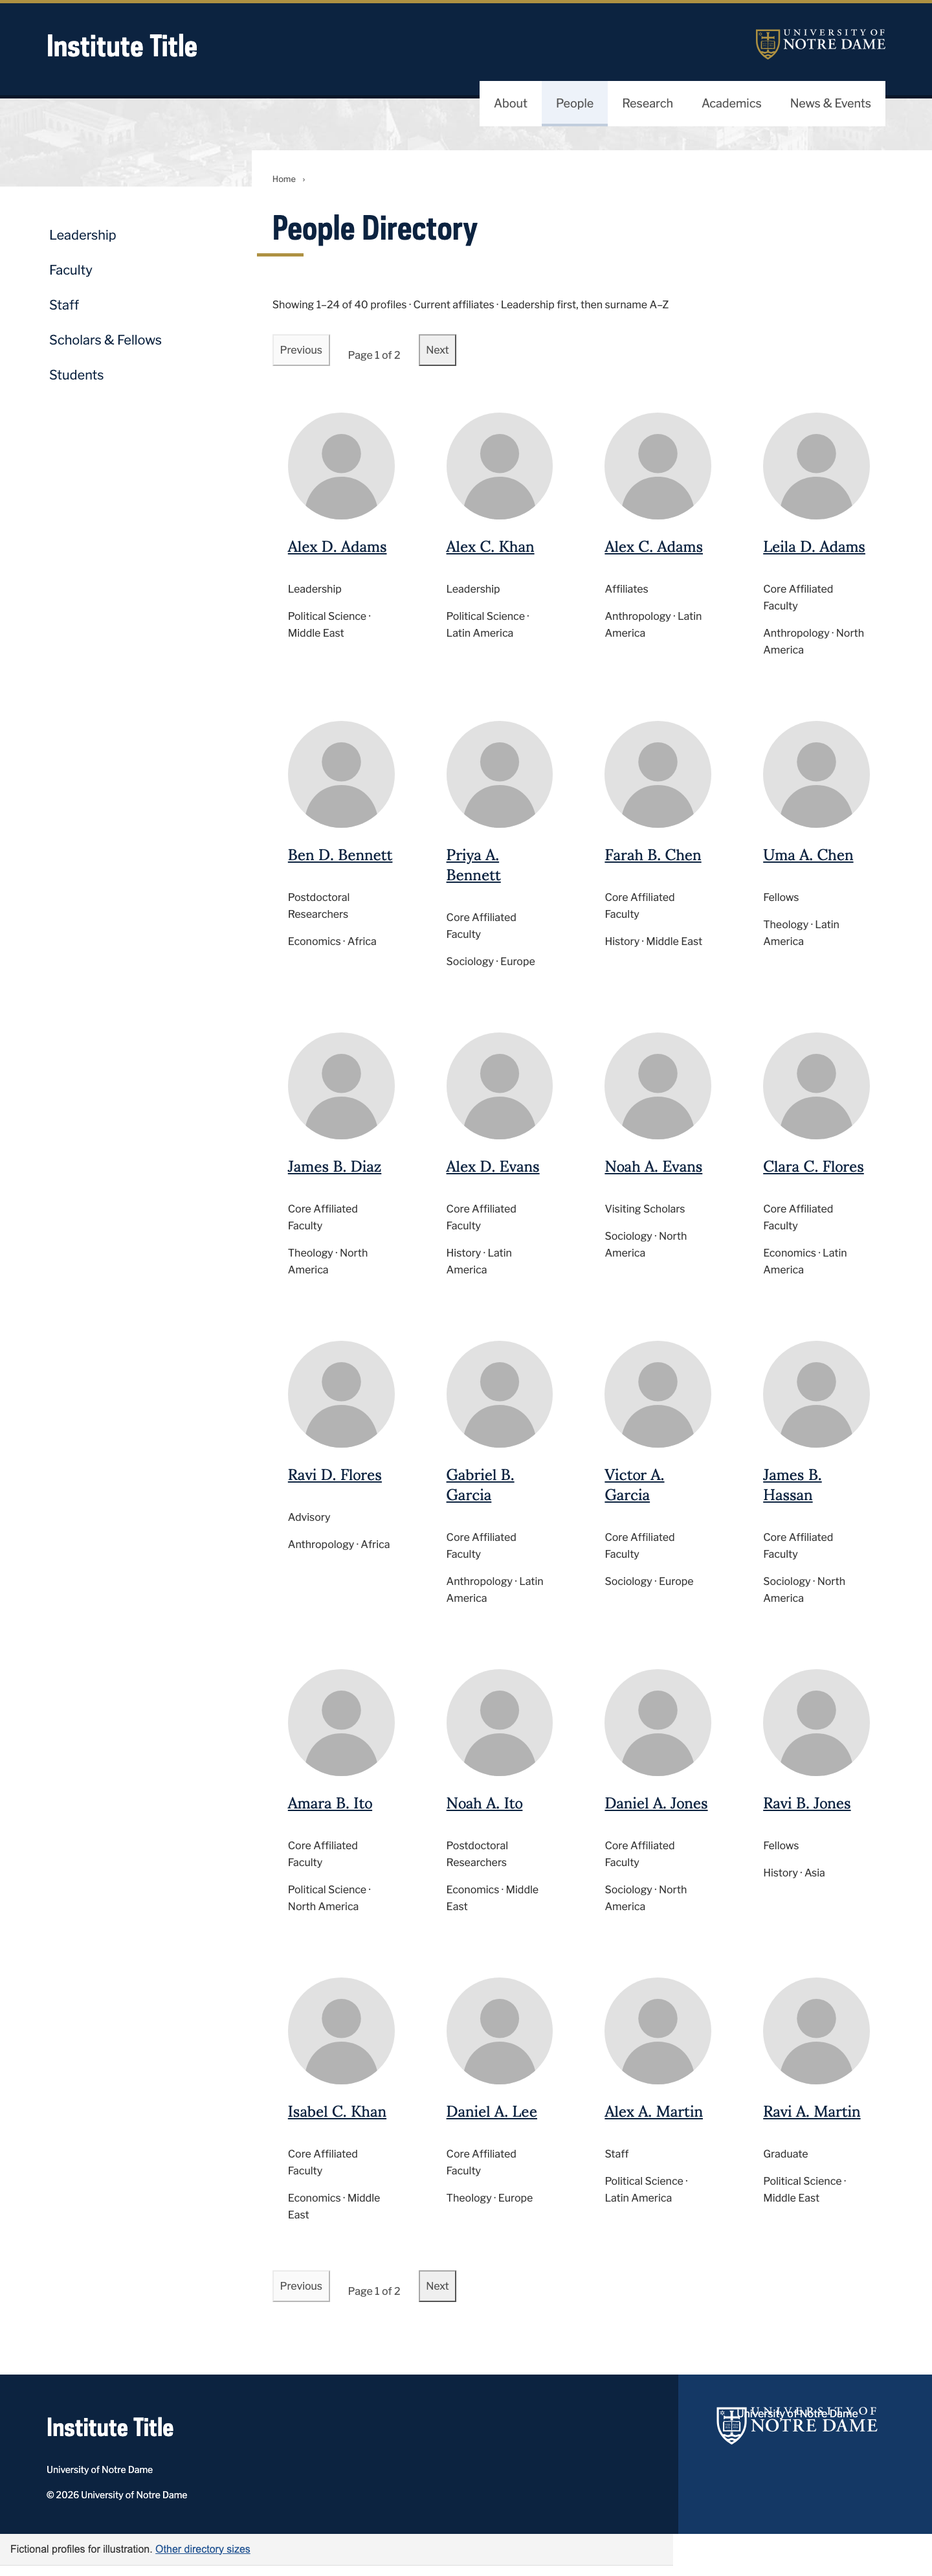
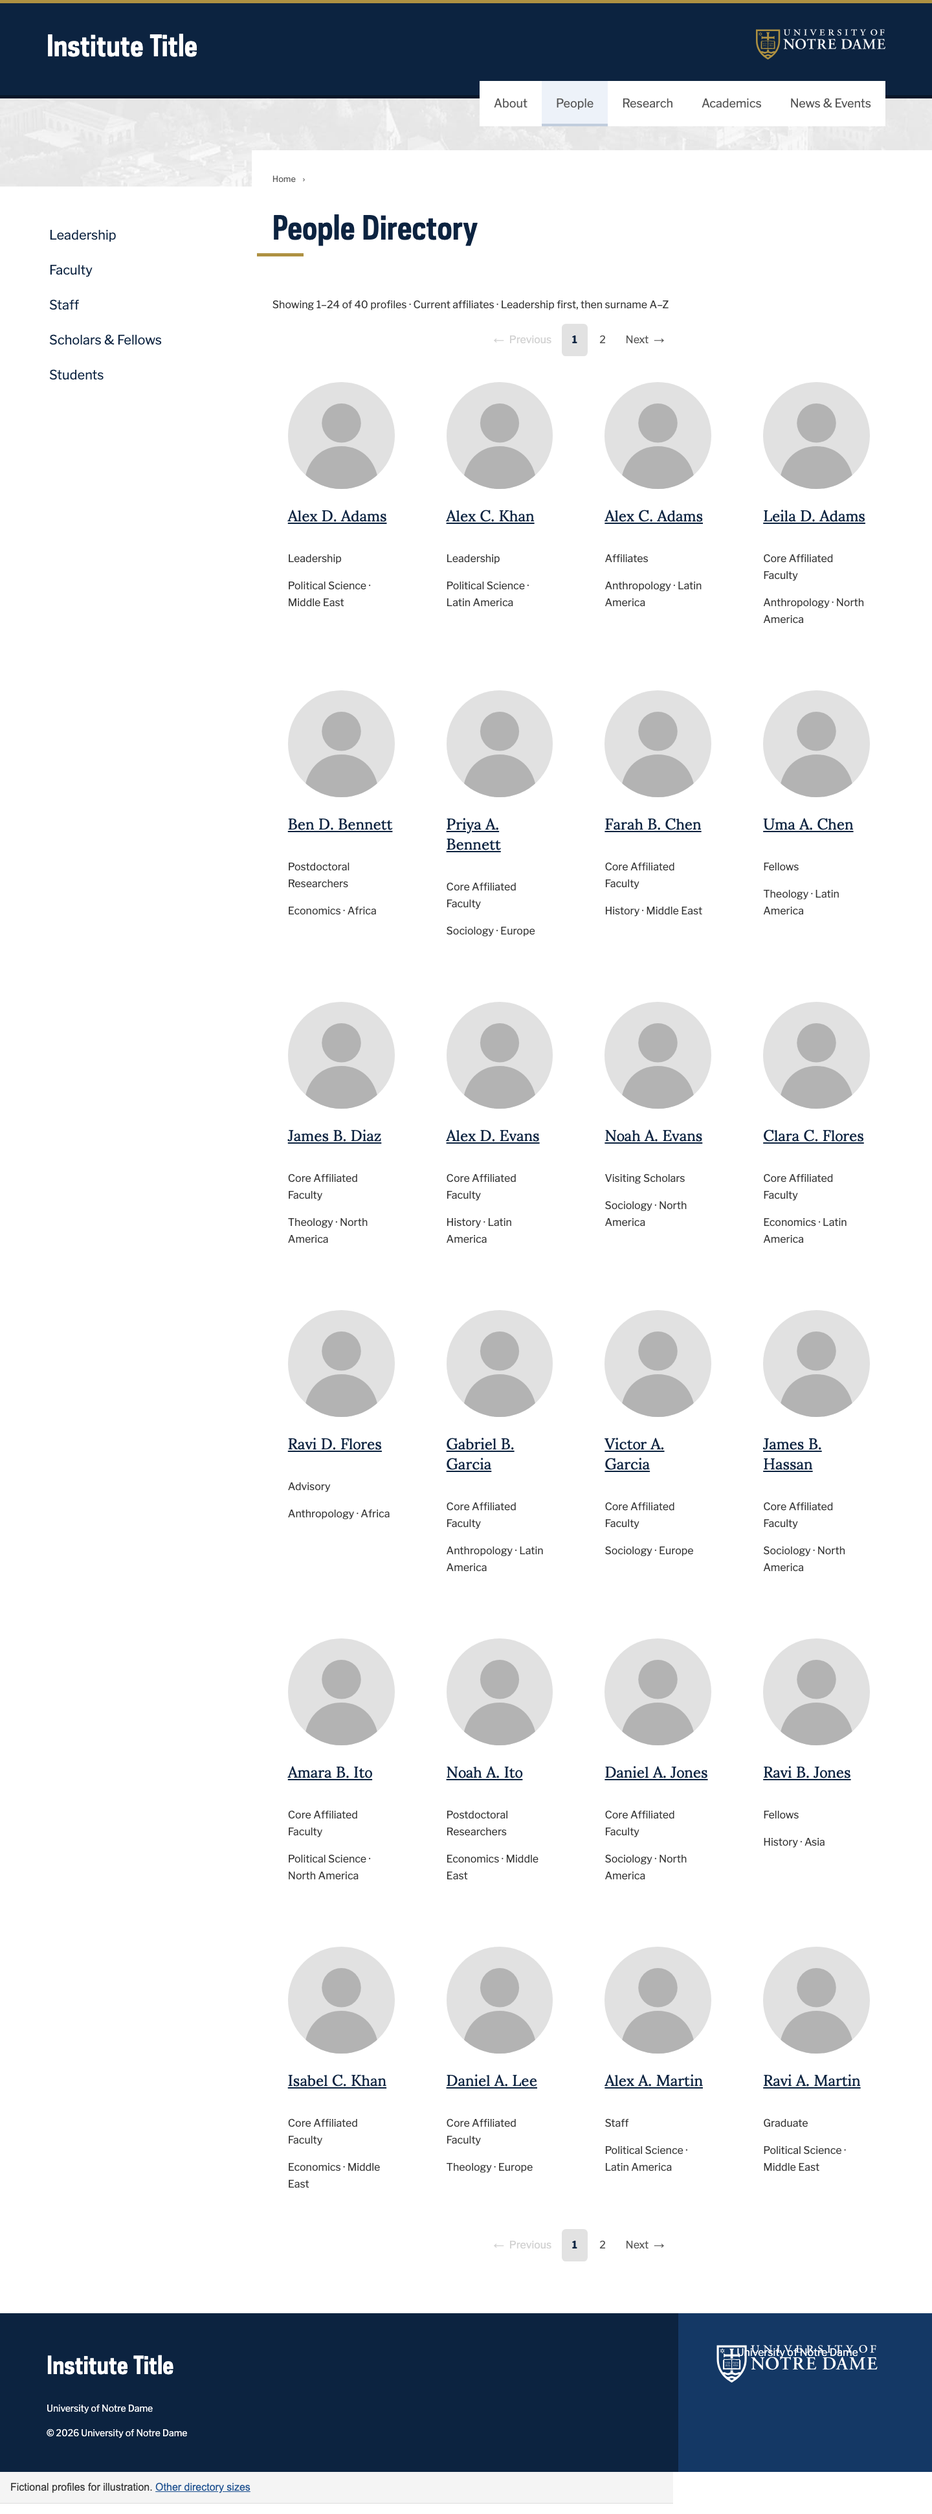
Use documented pagination markup and unmodified theme styles

diff --git a/comparison-assets/compare.js b/comparison-assets/compare.js
@@ -35,7 +35,7 @@ ${controls?`<form class="directory-controls" id="search-form"><label>Search ${gr
 <div class="directory-controls" ${gateway||featured?'hidden':''} id="filters"><label>Discipline<select id="discipline"><option value="">All disciplines</option>${options('discipline',discipline)}</select></label><label>Region of expertise<select id="region"><option value="">All regions</option>${options('region',region)}</select></label><label>Affiliation<select id="status"><option value="current" ${status==='current'?'selected':''}>Current</option><option value="past" ${status==='past'?'selected':''}>Past</option><option value="all" ${status==='all'?'selected':''}>Current and past</option></select></label><button id="reset" type="button">Clear search and filters</button></div>`:''}
 ${gateway?'<ul class="category-links">'+Object.entries(groups).map(([g,label])=>`<li><a href="${url(g)}"><strong>${label}</strong><br>${e({governance:'Institute leadership and advisory council',faculty:'Core affiliates and faculty groups',staff:'The team supporting the institute','scholars-fellows':'Visiting scholars, fellows, and postdocs',students:'Undergraduate, graduate, and PhD groups'}[g])}</a></li>`).join('')+'</ul>':''}
 ${featured?'<h2>Featured community members</h2><p>A curated selection across institute roles. This is not the complete directory.</p><p><a href="?search=1">Browse the full directory</a></p>':''}
-<p id="result-count" role="status" aria-live="polite"></p>${screenshot?'<nav class="pagination" aria-label="Directory pages above results" id="pagination-top"></nav>':''}<ul id="results" class="grid grid-sm-2 grid-md-4"></ul><nav class="pagination" aria-label="Directory pages" id="pagination"></nav>
+<p id="result-count" role="status" aria-live="polite"></p>${screenshot?'<div class="pagination" role="navigation" aria-label="Pagination above results" id="pagination-top"></div>':''}<ul id="results" class="grid grid-sm-2 grid-md-4"></ul><div class="pagination" role="navigation" aria-label="Pagination" id="pagination"></div>
 <dialog class="prototype-dialog" aria-labelledby="profile-name"><button id="close-profile" autofocus>Close profile</button><h2 id="profile-name"></h2><div id="profile-detail"></div></dialog>`;
 function save(){const s=new URLSearchParams(location.search);for(const [k,v] of Object.entries({q,discipline,region,status,page:String(page)})){if(v)s.set(k,v);else s.delete(k);}if(searched)s.set('search','1');history.replaceState(null,'',currentPath+'?'+s);}
 function render(){
@@ -47,12 +47,27 @@ function render(){
  const visible=small||featured?list:list.slice((page-1)*pageSize,page*pageSize);
  document.querySelector('#result-count').textContent=featured?'':list.length?`${small?'Showing all '+list.length:`Showing ${(page-1)*pageSize+1}–${Math.min(page*pageSize,list.length)} of ${list.length}`} profiles${!small?' · '+(status==='all'?'Current and past':status==='past'?'Past affiliates':'Current affiliates'):''}${screenshot&&!group?' · Leadership first, then surname A–Z':' · Last name A–Z'}`:'No matching profiles. Try a different search or clear the filters.';
  document.querySelector('#results').innerHTML=visible.map(p=>`<li class="card card-person"><figure class="card-image"><img class="image-circle" src="../../assets/avatar-placeholder.svg" width="600" height="600" alt="" loading="lazy"></figure><div class="card-body"><h3 class="card-title"><button class="profile-link" data-profile="${p.id}">${e(p.name)}</button></h3><p>${e(p.role)}</p><p>${e(p.discipline)} · ${e(p.region)}</p></div></li>`).join('');
- document.querySelector('#pagination').innerHTML=small||featured||!list.length||(screenshot&&list.length<=24)?'':`<button data-page="${page-1}" ${page===1?'disabled':''}>Previous</button><span>Page ${page} of ${pages}</span><button data-page="${page+1}" ${page===pages?'disabled':''}>Next</button>`;
- if(screenshot)document.querySelector('#pagination-top').innerHTML=document.querySelector('#pagination').innerHTML;
+ const visiblePages=[];
+ let start=Math.max(1,page-2),end=Math.min(pages,page+2);
+ if(start<=3){start=1;end=Math.min(pages,5);}
+ if(end>=pages-2){start=Math.max(1,pages-4);end=pages;}
+ const pageLink=(n,label,attrs='')=>{const next=new URLSearchParams(location.search);next.set('page',String(n));return `<a ${attrs} data-page="${n}" href="${e(currentPath+'?'+next)}">${label}</a>`;};
+ if(start>1){visiblePages.push(pageLink(1,'1','aria-label="Page 1"'));if(start>2)visiblePages.push('<span class="gap">…</span>');}
+ for(let n=start;n<=end;n++)visiblePages.push(n===page?`<span class="current" aria-current="page">${n}</span>`:pageLink(n,n,`aria-label="Page ${n}"`));
+ if(end<pages){if(end<pages-1)visiblePages.push('<span class="gap">…</span>');visiblePages.push(pageLink(pages,pages,`aria-label="Page ${pages}"`));}
+ const pagination=pages<=1||small||featured?'':[
+ page>1?pageLink(page-1,'Previous','class="previous_page" aria-label="Previous page" rel="prev"'):'<span class="previous_page disabled" aria-label="Previous page">Previous</span>',
+ ...visiblePages,
+ page<pages?pageLink(page+1,'Next','class="next_page" aria-label="Next page" rel="next"'):'<span class="next_page disabled" aria-label="Next page">Next</span>'
+ ].join(' ');
+ document.querySelector('#pagination').innerHTML=pagination;
+ document.querySelector('#pagination').hidden=!pagination;
+ if(screenshot){document.querySelector('#pagination-top').innerHTML=pagination;document.querySelector('#pagination-top').hidden=!pagination;}
+
 }
 app.addEventListener('submit',ev=>{ev.preventDefault();q=new FormData(ev.target).get('q').trim();page=1;searched=true;save();if(gateway||featured)location.reload();else render();});
 for(const key of ['discipline','region','status'])document.getElementById(key)?.addEventListener('change',ev=>{if(key==='discipline')discipline=ev.target.value;if(key==='region')region=ev.target.value;if(key==='status')status=ev.target.value;page=1;save();render();});
 document.querySelector('#reset')?.addEventListener('click',()=>{q='';discipline='';region='';status='current';page=1;searched=true;save();location.reload();});
-app.addEventListener('click',ev=>{const b=ev.target.closest('[data-page]');if(b){page=Number(b.dataset.page);save();render();document.querySelector('#result-count').scrollIntoView({block:'center'});}const a=ev.target.closest('[data-profile]');if(a){const p=data.find(p=>p.id===a.dataset.profile);document.querySelector('#profile-name').textContent=p.name;document.querySelector('#profile-detail').innerHTML=`<p>${e(p.role)} · ${e(groups[p.group])}</p><p>${e(p.discipline)} · ${e(p.region)}</p><p>Research interest: ${e(p.interest)}</p><p>${p.status==='past'?'Past affiliate':'Current affiliate'}</p><p>Fictional profile for usability testing.</p>`;document.querySelector('dialog').showModal();}});
+app.addEventListener('click',ev=>{const b=ev.target.closest('[data-page]');if(b){if(ev.ctrlKey||ev.metaKey||ev.shiftKey||ev.altKey)return;ev.preventDefault();page=Number(b.dataset.page);save();render();document.querySelector('#result-count').scrollIntoView({block:'center'});}const a=ev.target.closest('[data-profile]');if(a){const p=data.find(p=>p.id===a.dataset.profile);document.querySelector('#profile-name').textContent=p.name;document.querySelector('#profile-detail').innerHTML=`<p>${e(p.role)} · ${e(groups[p.group])}</p><p>${e(p.discipline)} · ${e(p.region)}</p><p>Research interest: ${e(p.interest)}</p><p>${p.status==='past'?'Past affiliate':'Current affiliate'}</p><p>Fictional profile for usability testing.</p>`;document.querySelector('dialog').showModal();}});
 document.querySelector('#close-profile').onclick=()=>document.querySelector('dialog').close();
 render();

diff --git a/site/compare/compare.js b/site/compare/compare.js
@@ -35,7 +35,7 @@ ${controls?`<form class="directory-controls" id="search-form"><label>Search ${gr
 <div class="directory-controls" ${gateway||featured?'hidden':''} id="filters"><label>Discipline<select id="discipline"><option value="">All disciplines</option>${options('discipline',discipline)}</select></label><label>Region of expertise<select id="region"><option value="">All regions</option>${options('region',region)}</select></label><label>Affiliation<select id="status"><option value="current" ${status==='current'?'selected':''}>Current</option><option value="past" ${status==='past'?'selected':''}>Past</option><option value="all" ${status==='all'?'selected':''}>Current and past</option></select></label><button id="reset" type="button">Clear search and filters</button></div>`:''}
 ${gateway?'<ul class="category-links">'+Object.entries(groups).map(([g,label])=>`<li><a href="${url(g)}"><strong>${label}</strong><br>${e({governance:'Institute leadership and advisory council',faculty:'Core affiliates and faculty groups',staff:'The team supporting the institute','scholars-fellows':'Visiting scholars, fellows, and postdocs',students:'Undergraduate, graduate, and PhD groups'}[g])}</a></li>`).join('')+'</ul>':''}
 ${featured?'<h2>Featured community members</h2><p>A curated selection across institute roles. This is not the complete directory.</p><p><a href="?search=1">Browse the full directory</a></p>':''}
-<p id="result-count" role="status" aria-live="polite"></p>${screenshot?'<nav class="pagination" aria-label="Directory pages above results" id="pagination-top"></nav>':''}<ul id="results" class="grid grid-sm-2 grid-md-4"></ul><nav class="pagination" aria-label="Directory pages" id="pagination"></nav>
+<p id="result-count" role="status" aria-live="polite"></p>${screenshot?'<div class="pagination" role="navigation" aria-label="Pagination above results" id="pagination-top"></div>':''}<ul id="results" class="grid grid-sm-2 grid-md-4"></ul><div class="pagination" role="navigation" aria-label="Pagination" id="pagination"></div>
 <dialog class="prototype-dialog" aria-labelledby="profile-name"><button id="close-profile" autofocus>Close profile</button><h2 id="profile-name"></h2><div id="profile-detail"></div></dialog>`;
 function save(){const s=new URLSearchParams(location.search);for(const [k,v] of Object.entries({q,discipline,region,status,page:String(page)})){if(v)s.set(k,v);else s.delete(k);}if(searched)s.set('search','1');history.replaceState(null,'',currentPath+'?'+s);}
 function render(){
@@ -47,12 +47,27 @@ function render(){
  const visible=small||featured?list:list.slice((page-1)*pageSize,page*pageSize);
  document.querySelector('#result-count').textContent=featured?'':list.length?`${small?'Showing all '+list.length:`Showing ${(page-1)*pageSize+1}–${Math.min(page*pageSize,list.length)} of ${list.length}`} profiles${!small?' · '+(status==='all'?'Current and past':status==='past'?'Past affiliates':'Current affiliates'):''}${screenshot&&!group?' · Leadership first, then surname A–Z':' · Last name A–Z'}`:'No matching profiles. Try a different search or clear the filters.';
  document.querySelector('#results').innerHTML=visible.map(p=>`<li class="card card-person"><figure class="card-image"><img class="image-circle" src="../../assets/avatar-placeholder.svg" width="600" height="600" alt="" loading="lazy"></figure><div class="card-body"><h3 class="card-title"><button class="profile-link" data-profile="${p.id}">${e(p.name)}</button></h3><p>${e(p.role)}</p><p>${e(p.discipline)} · ${e(p.region)}</p></div></li>`).join('');
- document.querySelector('#pagination').innerHTML=small||featured||!list.length||(screenshot&&list.length<=24)?'':`<button data-page="${page-1}" ${page===1?'disabled':''}>Previous</button><span>Page ${page} of ${pages}</span><button data-page="${page+1}" ${page===pages?'disabled':''}>Next</button>`;
- if(screenshot)document.querySelector('#pagination-top').innerHTML=document.querySelector('#pagination').innerHTML;
+ const visiblePages=[];
+ let start=Math.max(1,page-2),end=Math.min(pages,page+2);
+ if(start<=3){start=1;end=Math.min(pages,5);}
+ if(end>=pages-2){start=Math.max(1,pages-4);end=pages;}
+ const pageLink=(n,label,attrs='')=>{const next=new URLSearchParams(location.search);next.set('page',String(n));return `<a ${attrs} data-page="${n}" href="${e(currentPath+'?'+next)}">${label}</a>`;};
+ if(start>1){visiblePages.push(pageLink(1,'1','aria-label="Page 1"'));if(start>2)visiblePages.push('<span class="gap">…</span>');}
+ for(let n=start;n<=end;n++)visiblePages.push(n===page?`<span class="current" aria-current="page">${n}</span>`:pageLink(n,n,`aria-label="Page ${n}"`));
+ if(end<pages){if(end<pages-1)visiblePages.push('<span class="gap">…</span>');visiblePages.push(pageLink(pages,pages,`aria-label="Page ${pages}"`));}
+ const pagination=pages<=1||small||featured?'':[
+ page>1?pageLink(page-1,'Previous','class="previous_page" aria-label="Previous page" rel="prev"'):'<span class="previous_page disabled" aria-label="Previous page">Previous</span>',
+ ...visiblePages,
+ page<pages?pageLink(page+1,'Next','class="next_page" aria-label="Next page" rel="next"'):'<span class="next_page disabled" aria-label="Next page">Next</span>'
+ ].join(' ');
+ document.querySelector('#pagination').innerHTML=pagination;
+ document.querySelector('#pagination').hidden=!pagination;
+ if(screenshot){document.querySelector('#pagination-top').innerHTML=pagination;document.querySelector('#pagination-top').hidden=!pagination;}
+
 }
 app.addEventListener('submit',ev=>{ev.preventDefault();q=new FormData(ev.target).get('q').trim();page=1;searched=true;save();if(gateway||featured)location.reload();else render();});
 for(const key of ['discipline','region','status'])document.getElementById(key)?.addEventListener('change',ev=>{if(key==='discipline')discipline=ev.target.value;if(key==='region')region=ev.target.value;if(key==='status')status=ev.target.value;page=1;save();render();});
 document.querySelector('#reset')?.addEventListener('click',()=>{q='';discipline='';region='';status='current';page=1;searched=true;save();location.reload();});
-app.addEventListener('click',ev=>{const b=ev.target.closest('[data-page]');if(b){page=Number(b.dataset.page);save();render();document.querySelector('#result-count').scrollIntoView({block:'center'});}const a=ev.target.closest('[data-profile]');if(a){const p=data.find(p=>p.id===a.dataset.profile);document.querySelector('#profile-name').textContent=p.name;document.querySelector('#profile-detail').innerHTML=`<p>${e(p.role)} · ${e(groups[p.group])}</p><p>${e(p.discipline)} · ${e(p.region)}</p><p>Research interest: ${e(p.interest)}</p><p>${p.status==='past'?'Past affiliate':'Current affiliate'}</p><p>Fictional profile for usability testing.</p>`;document.querySelector('dialog').showModal();}});
+app.addEventListener('click',ev=>{const b=ev.target.closest('[data-page]');if(b){if(ev.ctrlKey||ev.metaKey||ev.shiftKey||ev.altKey)return;ev.preventDefault();page=Number(b.dataset.page);save();render();document.querySelector('#result-count').scrollIntoView({block:'center'});}const a=ev.target.closest('[data-profile]');if(a){const p=data.find(p=>p.id===a.dataset.profile);document.querySelector('#profile-name').textContent=p.name;document.querySelector('#profile-detail').innerHTML=`<p>${e(p.role)} · ${e(groups[p.group])}</p><p>${e(p.discipline)} · ${e(p.region)}</p><p>Research interest: ${e(p.interest)}</p><p>${p.status==='past'?'Past affiliate':'Current affiliate'}</p><p>Fictional profile for usability testing.</p>`;document.querySelector('dialog').showModal();}});
 document.querySelector('#close-profile').onclick=()=>document.querySelector('dialog').close();
 render();

diff --git a/comparison-assets/compare.css b/comparison-assets/compare.css
@@ -3,9 +3,8 @@
 .prototype-bar a {margin-right:1rem;}
 .directory-controls {display:flex; flex-wrap:wrap; gap:1rem; margin:1.5rem 0; align-items:end;}
 .directory-controls label {display:flex; flex-direction:column; gap:.25rem; flex:1 1 10rem;}
-.directory-controls input,.directory-controls select,.directory-controls button,.pagination button {font:inherit; padding:.6rem; max-width:100%;}
+.directory-controls input,.directory-controls select,.directory-controls button {font:inherit; padding:.6rem; max-width:100%;}
 .directory-controls input {min-width:0;}
-.pagination {display:flex;gap:1rem;align-items:center; flex-wrap:wrap; margin:2rem 0;}
 .category-links {display:grid;grid-template-columns:repeat(auto-fit,minmax(220px,1fr));gap:1rem;list-style:none;padding:0;}
 .category-links a {display:block; border:1px solid #ccc;padding:1rem;}
 .prototype-dialog {max-width:36rem;width:calc(100% - 2rem);padding:2rem;border:1px solid #aaa;}
@@ -13,5 +12,3 @@
 button.profile-link {background:none;border:0;padding:0;text-align:left;font:inherit;color:inherit;text-decoration:underline;cursor:pointer;}
 
 .directory-controls[hidden] {display:none;}
-
-.pagination:empty {display:none;}

diff --git a/site/compare/compare.css b/site/compare/compare.css
@@ -3,9 +3,8 @@
 .prototype-bar a {margin-right:1rem;}
 .directory-controls {display:flex; flex-wrap:wrap; gap:1rem; margin:1.5rem 0; align-items:end;}
 .directory-controls label {display:flex; flex-direction:column; gap:.25rem; flex:1 1 10rem;}
-.directory-controls input,.directory-controls select,.directory-controls button,.pagination button {font:inherit; padding:.6rem; max-width:100%;}
+.directory-controls input,.directory-controls select,.directory-controls button {font:inherit; padding:.6rem; max-width:100%;}
 .directory-controls input {min-width:0;}
-.pagination {display:flex;gap:1rem;align-items:center; flex-wrap:wrap; margin:2rem 0;}
 .category-links {display:grid;grid-template-columns:repeat(auto-fit,minmax(220px,1fr));gap:1rem;list-style:none;padding:0;}
 .category-links a {display:block; border:1px solid #ccc;padding:1rem;}
 .prototype-dialog {max-width:36rem;width:calc(100% - 2rem);padding:2rem;border:1px solid #aaa;}
@@ -13,5 +12,3 @@
 button.profile-link {background:none;border:0;padding:0;text-align:left;font:inherit;color:inherit;text-decoration:underline;cursor:pointer;}
 
 .directory-controls[hidden] {display:none;}
-
-.pagination:empty {display:none;}
